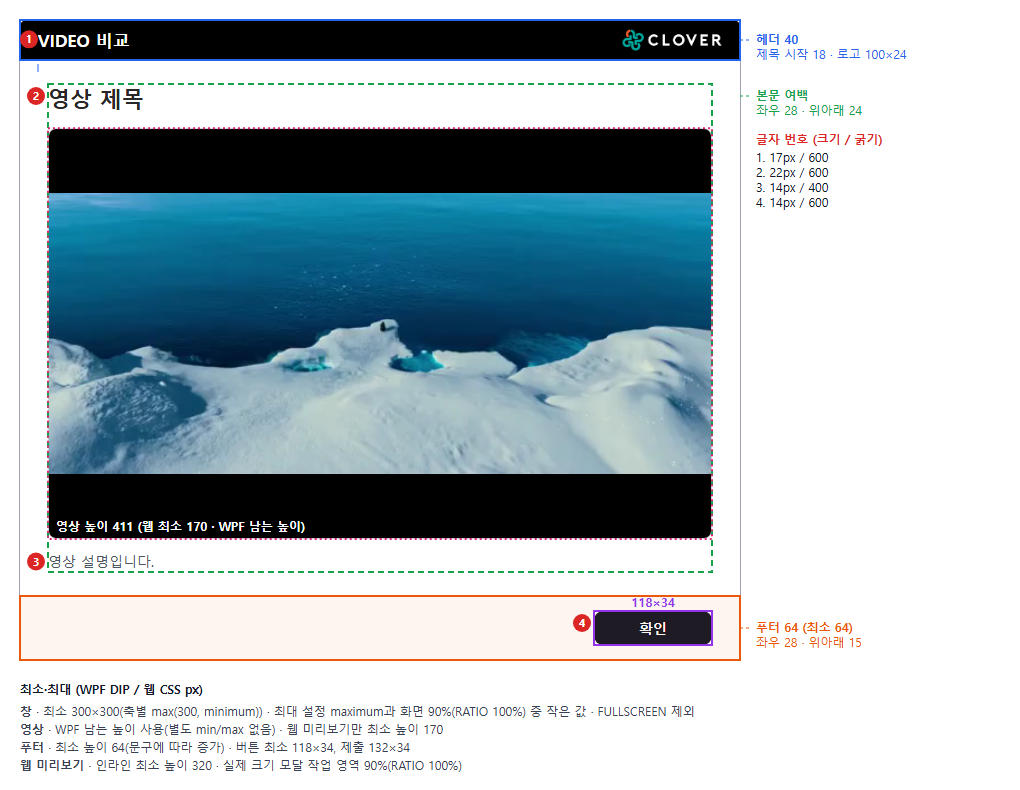
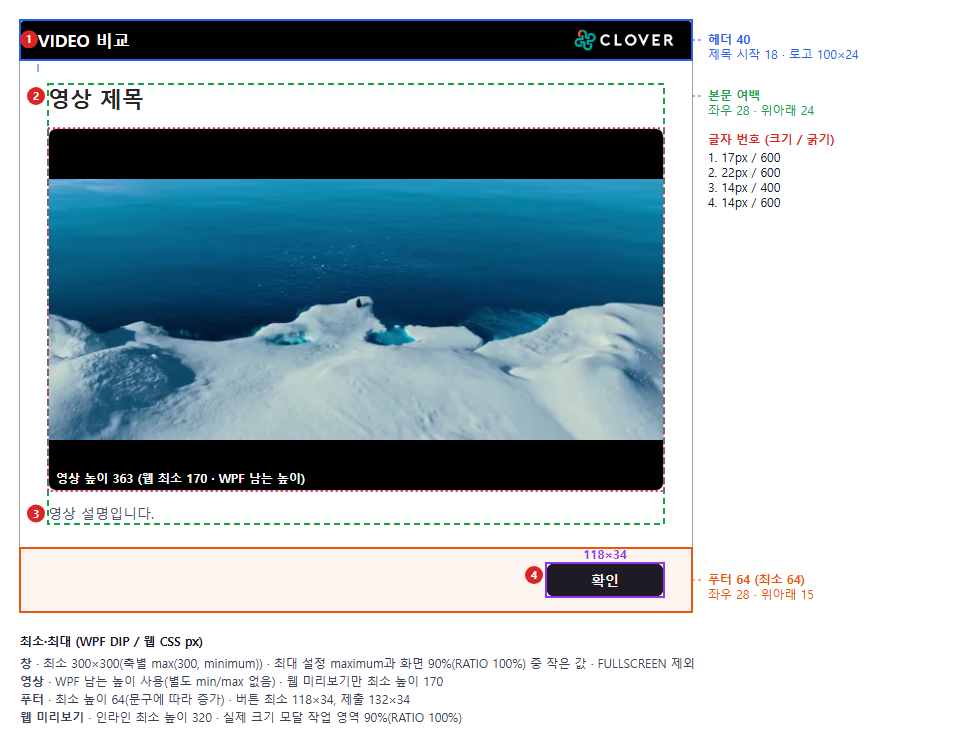
dev: 61_영상창판크기맞춤_수정

Changed region(s): [[0.0, 0.0, 0.8951, 0.9919], [0.5247, 0.496, 0.5556, 0.527]]

diff --git a/zero-rule-web/main/src/features/PopupcommonComponent/popupPreviewDialogLayout.ts b/zero-rule-web/main/src/features/PopupcommonComponent/popupPreviewDialogLayout.ts
@@ -23,18 +23,28 @@ export function previewPositionAlign(popup: AdminPopupDetail): [string, string] 
   return PREVIEW_POSITION_ALIGN[position] ?? PREVIEW_POSITION_ALIGN.CENTER;
 }
 
+/** 영상 창(VIDEO, 영상 사용 QUIZ) 여부. WPF는 이 창을 저사양 PC 부하 때문에 그림자 없는 불투명 창으로 만든다(ApplyVideoWindowSurface). */
+export function previewHostsVideo(popup: AdminPopupDetail): boolean {
+  return popup.popupType === 'VIDEO' || (popup.popupType === 'QUIZ' && popup.content.videoEnabled === true);
+}
+
 /**
  * POL-08-01 : 공통 렌더러
- * ■ 창 안쪽 그림자 여백
+ * ■ 창 안쪽 여백
  * - in : popup(AdminPopupDetail) popupType · sizeMode · content.videoEnabled
- * - out: number 여백(px) — 영상 창(VIDEO, 영상 사용 QUIZ)·FULLSCREEN 0, 그 밖 24
+ * - out: number 여백(px) — FULLSCREEN 0, 그 밖 24(영상 창 포함)
  * - WPF 일반 창은 창 크기 안에 그림자용 투명 여백 24px(PopupOuterGrid.Margin)을 두고 그 안에 흰 판을 그린다(흰 판 = 창 - 48).
- *   영상 창(ApplyVideoWindowSurface)·FULLSCREEN은 여백이 없다. 미리보기(PopupPreview)도 창 크기 안에 같은 여백을 두고 그 안에 그림자를 그린다
- *   (2026-11-17, 이전에는 IMAGE에만 적용돼 TEXT·SURVEY·QUIZ 흰 판이 WPF보다 48px 컸음).
+ *   미리보기(PopupPreview)도 창 크기 안에 같은 여백을 두고 그 안에 판을 그린다(2026-11-17).
+ * - 영상 창(2026-11-24): WPF가 창 자체를 사방 24씩 줄이고 위치도 그만큼 안쪽으로 옮겨(VideoWindowInset) 보이는 판이 다른 유형의 흰 판과
+ *   같은 크기·자리다. 미리보기는 같은 결과를 투명 여백 24로 그린다(그림자만 없음 — previewWindowShadow). 이전에는 영상 창 여백 0이라 판이 48 컸다.
  */
 export function previewShadowMargin(popup: AdminPopupDetail): number {
-  const hasVideo = popup.popupType === 'VIDEO' || (popup.popupType === 'QUIZ' && popup.content.videoEnabled === true);
-  return hasVideo || popup.sizeMode === 'FULLSCREEN' ? 0 : POPUP_LAYOUT.windowMargin;
+  return popup.sizeMode === 'FULLSCREEN' ? 0 : POPUP_LAYOUT.windowMargin;
+}
+
+/** 판 그림자 표시 여부. 영상 창·FULLSCREEN은 WPF와 같이 그림자를 그리지 않는다. */
+export function previewWindowShadow(popup: AdminPopupDetail): boolean {
+  return popup.sizeMode !== 'FULLSCREEN' && !previewHostsVideo(popup);
 }
 
 /** WPF DropShadowEffect(BlurRadius 22 · ShadowDepth 4 · Direction 270 · Opacity 0.28)에 해당하는 CSS 그림자. 여백이 있는 창에만 쓴다. */

diff --git a/zero-rule-web/main/src/features/PopupcommonComponent/PopupPreview.tsx b/zero-rule-web/main/src/features/PopupcommonComponent/PopupPreview.tsx
@@ -11,7 +11,7 @@ import { POPUP_COLORS, POPUP_LAYOUT } from './popupLayout';
 import { readTextBlocks } from './popupRichText';
 import PopupRichBlocks, { richBlocksOrNull } from './PopupRichBlocks';
 import { POPUP_DEFAULT_FONT_SIZES, popupFontSize, popupMinimumSize } from './popupCommon';
-import { PREVIEW_WINDOW_SHADOW, previewShadowMargin, readScreenWorkArea } from './popupPreviewDialogLayout';
+import { PREVIEW_WINDOW_SHADOW, previewShadowMargin, previewWindowShadow, readScreenWorkArea } from './popupPreviewDialogLayout';
 import { PREVIEW_VIDEO_QUIZ_COMPLETION_RATIO } from './popupPreviewFallback';
 import { buildQuizResultNotice, SURVEY_COMPLETED_MESSAGE } from './popupQuizResultNotice';
 import { quizRequiresPassing } from './popupQuizRule';
@@ -563,7 +563,8 @@ export default function PopupPreview({
       sx={{
         minHeight: 0,
         height: '100%',
-        // WPF 일반 창은 창 크기 안에 그림자 여백 24px(영상 창·FULLSCREEN 0)을 두고 흰 판을 그린다. 모든 유형에 같은 규칙(2026-11-17).
+        // WPF 일반 창은 창 크기 안에 그림자 여백 24px(FULLSCREEN 0)을 두고 흰 판을 그린다. 모든 유형에 같은 규칙(2026-11-17).
+        // 영상 창도 WPF가 창을 사방 24씩 줄여 같은 판 크기·자리에 두므로 여백 24(그림자 없음, 2026-11-24).
         p: shadowMargin ? `${shadowMargin}px` : showBackground ? 2 : 0,
         flex: 1,
         boxSizing: 'border-box',
@@ -592,7 +593,7 @@ export default function PopupPreview({
         elevation={0}
         sx={{
           // WPF DropShadowEffect와 같은 그림자. 영상 창·FULLSCREEN은 WPF와 같이 그림자 없음.
-          boxShadow: shadowMargin ? PREVIEW_WINDOW_SHADOW : 'none',
+          boxShadow: previewWindowShadow(popup) ? PREVIEW_WINDOW_SHADOW : 'none',
           width: '100%',
           height: '100%',
           maxWidth: '100%',

diff --git a/zero-rule-web/main/src/features/PopupcommonComponent/guide/guideNotices.ts b/zero-rule-web/main/src/features/PopupcommonComponent/guide/guideNotices.ts
@@ -57,6 +57,15 @@ export const NOTICE_STATUS_LABELS: Record<NoticeStatus, string> = {
 
 export const GUIDE_NOTICES: GuideNotice[] = [
   {
+    id: '2026-11-24-video-window-inset', date: '2026-11-24', category: 'CHANGED', status: 'DONE', doneDate: '2026-11-24',
+    title: '영상 팝업 판 크기 — 다른 유형과 같게',
+    body: ['같은 창 크기에서 VIDEO·동영상+퀴즈 판이 다른 유형보다 가로·세로 48px 크게 보이던 것을 맞췄습니다. WPF는 영상 창을 사방 24씩 줄이고 위치도 그만큼 안쪽으로 둡니다.',
+      '미리보기(인라인·실제 크기)도 영상 창에 여백 24를 두고 그림자만 그리지 않습니다(previewShadowMargin 24, previewWindowShadow false). 저장값·서버는 바뀌지 않습니다.'],
+    components: ['PopupPreview', 'PopupPreviewDialog', 'InlinePopupPreview'],
+    action: '바꿀 코드는 없습니다. 미리보기를 감싼 화면에서 영상 팝업만 여백을 따로 빼고 있었다면 지웁니다.',
+    tab: 'function',
+  },
+  {
     id: '2026-11-24-rich-font-faces', date: '2026-11-24', category: 'ADDED', status: 'DONE', doneDate: '2026-11-24',
     title: '회사 글꼴 등록 — 일반·굵게 서체 직접 지정(faces)',
     body: ['전역 CSS 별칭이 굵기마다 다른 디자인(예: 300 Text·700 Head)을 섞거나 400 선언이 없으면, 편집기·미리보기가 WPF와 다른 서체를 고릅니다.',

diff --git a/scripts/PopupWindowTests/Program.cs b/scripts/PopupWindowTests/Program.cs
@@ -274,6 +274,62 @@ internal static class Program
         return opened;
     }
 
+    /*
+     * POL-02-01 : 창 구조 — 영상 창 크기 맞춤(2026-11-24).
+     * 일반 창은 창 안쪽 24 DIP 그림자 여백 안에 흰 판(창 - 48)을 그리고, 영상 창은 여백 없는 불투명 창이다.
+     * 영상 창은 사방 24씩 작게 만들고 위치도 그만큼 안쪽으로 옮겨, 같은 설정이면 보이는 판이 TEXT 흰 판과 같은 크기·자리에 놓인다.
+     * FIXED·RATIO·AUTO 최대(작업 영역 90%) 모두 같은 규칙, FULLSCREEN은 그대로 화면 전체.
+     */
+    private static void CheckVideoWindowInset()
+    {
+        Rect PlateOnScreen(PopupWindow window)
+        {
+            window.UpdateLayout();
+            var plate = (FrameworkElement)window.FindName("PopupBodyBorder");
+            var origin = plate.TranslatePoint(new Point(0, 0), window);
+            return new Rect(window.Left + origin.X, window.Top + origin.Y, plate.ActualWidth, plate.ActualHeight);
+        }
+        bool Near(Rect a, Rect b) => Math.Abs(a.X - b.X) < 1 && Math.Abs(a.Y - b.Y) < 1 && Math.Abs(a.Width - b.Width) < 1 && Math.Abs(a.Height - b.Height) < 1;
+        foreach (var (mode, position, w, h) in new[] { ("FIXED", "CENTER", 800, 600), ("FIXED", "TOP_LEFT", 800, 600), ("FIXED", "BOTTOM_RIGHT", 800, 600), ("RATIO", "CENTER", 800, 600), ("FIXED", "CENTER", 720, 900) })
+        {
+            void Configure(Popup.Dtos.PopupResponseDto dto)
+            {
+                dto.SizeMode = mode; dto.Width = w; dto.Height = h; dto.WidthRatio = 0.5; dto.HeightRatio = 0.6;
+                dto.PopupPosition = position; dto.ShowFooter = true;
+                dto.MinimumWidth = 300; dto.MinimumHeight = 300; dto.MaximumWidth = 1200; dto.MaximumHeight = 900;   // 데모 데이터의 유형별 최소·최대 차이를 없앤다
+            }
+            var text = OpenPopup("TEXT", Configure);
+            Rect textPlate = PlateOnScreen(text.Window);
+            foreach (var type in new[] { "VIDEO", "VIDEO_QUIZ" })
+            {
+                var video = OpenPopup(type, Configure);
+                Rect videoPlate = PlateOnScreen(video.Window);
+                Check(Near(videoPlate, textPlate) && Math.Abs(video.Window.ActualWidth - (text.Window.ActualWidth - 48)) < 1,
+                    $"[video inset] {type} {mode} {position} {w}x{h}: video plate {videoPlate} matches TEXT plate {textPlate} (window {video.Window.ActualWidth} vs {text.Window.ActualWidth})");
+                ShutdownClose(video.Window);
+            }
+            ShutdownClose(text.Window);
+        }
+        // 최대 크기: 작업 영역 90% 상한에서도 영상 판 = TEXT 판.
+        Rect area = SystemParameters.WorkArea;
+        var bigText = OpenPopup("TEXT", dto => { dto.SizeMode = "FIXED"; dto.Width = 9000; dto.Height = 9000; dto.MinimumWidth = 300; dto.MinimumHeight = 300; dto.MaximumWidth = 9000; dto.MaximumHeight = 9000; dto.ShowFooter = true; });
+        var bigVideo = OpenPopup("VIDEO", dto => { dto.SizeMode = "FIXED"; dto.Width = 9000; dto.Height = 9000; dto.MinimumWidth = 300; dto.MinimumHeight = 300; dto.MaximumWidth = 9000; dto.MaximumHeight = 9000; dto.ShowFooter = true; });
+        Check(Near(PlateOnScreen(bigVideo.Window), PlateOnScreen(bigText.Window)) && bigVideo.Window.ActualWidth <= area.Width * 0.9 - 48 + 1,
+            $"[video inset] capped size: video plate {PlateOnScreen(bigVideo.Window)} matches TEXT plate {PlateOnScreen(bigText.Window)}");
+        ShutdownClose(bigVideo.Window); ShutdownClose(bigText.Window);
+        // 최소 크기 300: 영상 창 252(= TEXT 흰 판).
+        var smallVideo = OpenPopup("VIDEO", dto => { dto.SizeMode = "FIXED"; dto.Width = 100; dto.Height = 100; dto.MinimumWidth = 300; dto.MinimumHeight = 300; dto.ShowFooter = true; });
+        smallVideo.Window.UpdateLayout();
+        Check(Math.Abs(smallVideo.Window.MinWidth - 252) < 1 && Math.Abs(smallVideo.Window.ActualWidth - 252) < 1,
+            $"[video inset] minimum 300 window becomes a 252 video window ({smallVideo.Window.ActualWidth}, min {smallVideo.Window.MinWidth})");
+        ShutdownClose(smallVideo.Window);
+        // FULLSCREEN은 줄이지 않는다.
+        var full = OpenPopup("VIDEO", dto => { dto.SizeMode = "FULLSCREEN"; dto.ShowFooter = true; });
+        full.Window.UpdateLayout();
+        Check(full.Window.ActualWidth >= SystemParameters.PrimaryScreenWidth - 1, $"[video inset] FULLSCREEN video keeps the full screen ({full.Window.ActualWidth})");
+        ShutdownClose(full.Window);
+    }
+
     private static void SetPlaybackFailed(VideoPopupView video, bool failed) =>
         typeof(VideoPopupView).GetProperty("HasPlaybackFailed")!.SetValue(video, failed);
 
@@ -843,6 +899,7 @@ internal static class Program
 
         CheckVideoQuizScrollBarBoundary60();
         CheckLocalVideoWebPlayer60();
+        CheckVideoWindowInset();
         CheckVideoKeyboardAccess();
 
         var single = OpenPopup("VIDEO", dto => dto.ShowFooter = true);

diff --git a/popup-frameWork/Popup/Views/Windows/PopupWindow.xaml.cs b/popup-frameWork/Popup/Views/Windows/PopupWindow.xaml.cs
@@ -396,7 +396,36 @@ namespace Popup.Views.Windows
          * PopupOptions.SizeMode에 따라
          * PopupWindow의 실제 크기를 결정한다.
          */
+        /*
+         * POL-02-01 : 창 구조
+         * ■ 영상 창 크기 맞춤(2026-11-24)
+         * - 일반 창은 창 크기 안쪽 둘레 24 DIP(PopupOuterGrid.Margin)를 그림자용 투명 여백으로 비우고 그 안에 흰 판을 그린다(보이는 판 = 창 - 48).
+         *   영상 창(ApplyVideoWindowSurface)은 저사양 PC 부하 때문에 불투명 창·여백 0이라, 같은 설정 크기에서 판이 48 크게 보였다.
+         * - 영상 창(전체 화면 제외)은 같은 규칙으로 크기를 계산한 뒤 창 자체를 사방 VideoWindowInset만큼 줄이고(ApplyWindowSize),
+         *   위치도 작업 영역을 그만큼 안쪽으로 좁혀 정한다(ApplyPosition). 보이는 판이 다른 유형의 흰 판과 같은 크기·자리에 놓인다.
+         *   그림자는 계속 넣지 않는다(저사양 CPU 부하 기준 유지).
+         */
+        private const double VideoWindowInset = 24;
+        private double WindowInset => HostsVideo && _options.SizeMode != PopupSizeMode.Fullscreen ? VideoWindowInset : 0;
+
         private void ApplyWindowSize()
+        {
+            ApplyRequestedWindowSize();
+            double inset = WindowInset;
+            if (inset <= 0) return;
+            // 최소·최대·크기 모두 같은 양을 빼서 다른 유형의 흰 판(창 - 48)과 같은 범위를 쓴다. AUTO는 내용 크기를 따르므로 최소·최대만 줄인다.
+            MinWidth = Math.Max(0, MinWidth - inset * 2);
+            MinHeight = Math.Max(0, MinHeight - inset * 2);
+            if (double.IsFinite(MaxWidth)) MaxWidth = Math.Max(MinWidth, MaxWidth - inset * 2);
+            if (double.IsFinite(MaxHeight)) MaxHeight = Math.Max(MinHeight, MaxHeight - inset * 2);
+            if (SizeToContent == SizeToContent.Manual)
+            {
+                if (double.IsFinite(Width)) Width = Math.Clamp(Width - inset * 2, MinWidth, MaxWidth);
+                if (double.IsFinite(Height)) Height = Math.Clamp(Height - inset * 2, MinHeight, MaxHeight);
+            }
+        }
+
+        private void ApplyRequestedWindowSize()
         {
             /*
              * PopupWindow.xaml에는 Visual Studio 미리보기와
@@ -803,6 +832,9 @@ namespace Popup.Views.Windows
             double width = ActualWidth > 0 ? ActualWidth : Width;
             double height = ActualHeight > 0 ? ActualHeight : Height;
             if (!double.IsFinite(width) || !double.IsFinite(height)) return;
+            // 영상 창은 그림자 여백만큼 작게 만들었으므로 작업 영역도 그만큼 안쪽으로 좁혀, 판이 다른 유형의 흰 판과 같은 자리에 오게 한다.
+            double inset = WindowInset;
+            if (inset > 0 && area.Width > inset * 2 && area.Height > inset * 2) area.Inflate(-inset, -inset);
             double x = _options.Position switch
             {
                 PopupPosition.TopLeft or PopupPosition.CenterLeft or PopupPosition.BottomLeft => 0,

diff --git a/version-history/CHANGELOG.md b/version-history/CHANGELOG.md
@@ -1,5 +1,13 @@
 # 변경 이력
 
+## 2026-11-24-19 — dev: 61_영상창판크기맞춤_수정
+
+- 이유 · VIDEO·VIDEO+QUIZ 창은 저사양 PC 부하 때문에 그림자 없는 불투명 창이라 그림자 여백 24도 없어, 같은 설정 크기에서 판이 다른 유형(창 - 48)보다 48 크게 보였다. 그림자 유무보다 크기 차이가 눈에 띄어 크기만 맞춤.
+- 변경 · WPF `PopupWindow`: 기존 크기 계산을 `ApplyRequestedWindowSize`로 분리하고 `ApplyWindowSize`에서 영상 창(전체 화면 제외)의 최소·최대·크기를 사방 `VideoWindowInset` 24씩 줄임(AUTO는 최소·최대만). `ApplyPosition`은 영상 창일 때 작업 영역을 24 안쪽으로 좁혀 위치 계산. 그림자는 계속 없음. 웹: `previewShadowMargin`이 영상 창에도 24(FULLSCREEN만 0), 그림자는 새 `previewWindowShadow`/`previewHostsVideo`로 판단. 61 레이아웃 가이드(공통 창 구조 표·VIDEO 그림 4장 재생성·VIDEO+QUIZ 비교 창 720×840), UI 기본값 사양, 미리보기·WPF 대조 문서, 코드 가이드 공지 갱신. `verify-popup-parity` VIDEO+QUIZ 비교 데이터 높이 900 → 840(작업 영역 높이 약 947인 측정 환경에서 90% 상한 852에 걸려 2026-11-24 상한 통일 이후 실패하던 조건 회피).
+- 주요 파일 · `popup-frameWork/Popup/Views/Windows/PopupWindow.xaml.cs`, `scripts/PopupWindowTests/Program.cs`, `zero-rule-web/main/src/features/PopupcommonComponent/popupPreviewDialogLayout.ts`, `PopupPreview.tsx`, `guide/guideNotices.ts`, `scripts/verify-popup-preview-61.cjs`, `scripts/verify-popup-parity.cjs`, `docs/design/61_POPUP_LAYOUT_GUIDE.md`, `docs/design/61_popup_layout_guide/PARITY-VIDEO*.png`, `docs/design/61_POPUP_UI_DEFAULTS_SPEC.md`, `docs/reviews/POPUP_PREVIEW_WPF_PARITY.md`.
+- 검증 · WPF 빌드 0/0, `PopupWindowTests` 신규 `CheckVideoWindowInset` 13건(FIXED 3위치·RATIO·720×900·90% 상한·최소 300 → 252·FULLSCREEN 유지, TEXT 흰 판과 화면 좌표 일치) 포함 전체 통과, 로컬 BehaviorTests 1644, 웹 `verify-popup-parity` 54(VIDEO·VIDEO+QUIZ 흰 판 웹=WPF)·`verify-popup-preview-61` 294·completion-ux-43 82·common-sample-69 63·image-preview 48·guide-render·guide-registry, `tsc --noEmit`·eslint 통과. 미실행: Windows 실화면·고DPI, 관리자 웹 실화면, 폐쇄망 반입본.
+- 상태 · 커밋·원격 반영.
+
 ## 2026-11-24-18 — dev: PopupAlert_전체섀도우_수정
 
 - 이유 · 공통 안내창의 검은 외곽선(1.2 DIP)이 배율(DPI)에 따라 두께가 달라 보여 DPI 대응을 섀도우로 하기로 했으나, 2026-11-24-05에서는 퀴즈 완료창에만 섀도우를 적용해 나머지 안내창은 외곽선이 남아 있었음.

diff --git a/docs/design/61_POPUP_UI_DEFAULTS_SPEC.md b/docs/design/61_POPUP_UI_DEFAULTS_SPEC.md
@@ -20,7 +20,7 @@
 
 | 영역 | 기본 글자 크기·굵기 | 기본 크기·여백 | 적용 조건 |
 |---|---|---|---|
-| 창·내부 패널 | — | 일반 창은 그림자 공간 사방 24. 영상 창 및 FULLSCREEN은 0. 창 크기 하한은 너비·높이 각각 300을 기본으로 사용 | 웹 FIXED 미지정 입력·모달 기준 560×420. WPF `PopupOptions` 객체 초기값은 900×620. 실표시는 전달 크기·크기 모드·가용 화면 및 제한값으로 계산 |
+| 창·내부 패널 | — | 일반 창은 그림자 공간 사방 24. 영상 창은 그림자 없이 창 자체를 사방 24 줄여 같은 판 크기·자리(2026-11-24). FULLSCREEN은 0. 창 크기 하한은 너비·높이 각각 300을 기본으로 사용 | 웹 FIXED 미지정 입력·모달 기준 560×420. WPF `PopupOptions` 객체 초기값은 900×620. 실표시는 전달 크기·크기 모드·가용 화면 및 제한값으로 계산 |
 | 헤더 제목 | **17 / SemiBold(600)** | 행 높이 **40**, 제목 시작 18, 로고와 제목 사이 12 기준. 우측 로고 **100×24**, 끝 여백 18 기준 | `headerFontSize` 지정 우선. 한 줄 말줄임. 헤더를 끄면 행도 접힘 |
 | 일반 본문 외곽 | 유형별 아래 표 | 좌우 **28**, 상하 **24**. 웹은 콘텐츠 박스의 padding, WPF는 `PopupContent` margin | 이미지 모드·전체 채움처럼 여백을 별도로 처리하는 경로는 유형별 확인 |
 | 공통 푸터 | 버튼·체크박스 **14** 기본, 진행·상태 문구는 별도 크기(설문 응답 진행 문구 12, 푸터 글자 크기 미적용) | 한 줄 기준 **64**, 좌우 **28**·상하 **15**가 공통 기준. 웹 일반 분기는 좌우 28px, 설문 분기는 테마 간격 `px: 3`으로 선언 | **TODO61-18**에서 분기별 실제 간격과 줄바꿈 정렬 검증. WPF 영상·설문 계열 행은 자동 높이·최소 64. 숨김 시 행을 접음 |

diff --git a/docs/reviews/POPUP_PREVIEW_WPF_PARITY.md b/docs/reviews/POPUP_PREVIEW_WPF_PARITY.md
@@ -80,3 +80,10 @@
 4. 설문 머리말: 제목 위 4, 설명 줄 높이 22, 설명 아래 14(머리말 10 + 문항 목록 4). 설명이 비어도 한 줄 자리를 둔다(VIDEO+QUIZ에서 영상 설명과 같아 숨길 때만 접음, `reserveDescription`).
 
 검증: `verify-popup-parity.cjs` 22건(5종 흰 판 크기 웹=WPF, 선택지 17개 높이·글자) 통과, 나란히 이미지에서 첫 문항 위치·버튼 색·구분선 일치 확인(설명 줄 1~2px 이내 차이는 글꼴 렌더링 차이).
+
+## 2026-11-24 영상 창 판 크기 맞춤
+
+- 현상: 같은 설정 크기에서 VIDEO·VIDEO+QUIZ 판이 다른 유형보다 가로·세로 48 크게 보였다(영상 창은 저사양 PC 부하 때문에 그림자 없는 불투명 창이라 여백 24도 없었음).
+- 변경: WPF `PopupWindow`가 영상 창(전체 화면 제외)을 사방 `VideoWindowInset` 24씩 줄이고 위치도 작업 영역을 그만큼 안쪽으로 좁혀 정한다. 미리보기는 `previewShadowMargin` 24를 영상 창에도 적용하고 그림자만 `previewWindowShadow`로 끈다. 보이는 판이 다른 유형 흰 판과 같은 크기·자리.
+- 검증: `PopupWindowTests` `CheckVideoWindowInset`(FIXED 3위치·RATIO·720×900·90% 상한·최소 300 → 252·FULLSCREEN 유지, TEXT 흰 판과 화면 좌표 일치), `verify-popup-parity` 54(VIDEO·VIDEO+QUIZ 흰 판 웹=WPF), `verify-popup-preview-61` 294.
+- 비교 데이터: VIDEO+QUIZ 창 높이 900 → 840(작업 영역 90% 상한에 걸리지 않게).

diff --git a/docs/design/61_POPUP_LAYOUT_GUIDE.md b/docs/design/61_POPUP_LAYOUT_GUIDE.md
@@ -30,7 +30,7 @@ node scripts/verify-popup-parity.cjs
 
 | 영역 | 값 | 웹(관리자 미리보기) | WPF |
 |---|---|---|---|
-| 창 바깥 그림자 여백 | 24 (영상 창·FULLSCREEN 0) | `POPUP_LAYOUT.windowMargin`, `previewShadowMargin()` | `PopupOuterGrid` Margin 24 |
+| 창 바깥 그림자 여백 | 24 (FULLSCREEN 0). 영상 창은 그림자 없이 같은 24만큼 창을 줄여 판 크기·자리를 맞춤(2026-11-24) | `POPUP_LAYOUT.windowMargin`, `previewShadowMargin()`, 그림자 `previewWindowShadow()` | `PopupOuterGrid` Margin 24, 영상 창 `VideoWindowInset` 24 |
 | 헤더 | 높이 40, 검정 배경 | `POPUP_LAYOUT.headerHeight` | `HeaderRow` 40, `HeaderArea` |
 | 헤더 제목 | 17 / 600, 왼쪽 시작 18, 한 줄 말줄임 | `POPUP_DEFAULT_FONT_SIZES.header`, `POPUP_LAYOUT.headerPaddingLeft` | `PopupTitleText` |
 | 헤더 로고 | 100×24, 오른쪽 끝 | `PopupPreview` 헤더 로고 | `HeaderLogo` |
@@ -241,7 +241,7 @@ node scripts/verify-popup-parity.cjs
 
 웹·WPF 나란히: [PARITY-VIDEO.side.png](61_popup_layout_guide/PARITY-VIDEO.side.png)
 
-### VIDEO+QUIZ (720×900)
+### VIDEO+QUIZ (720×840)
 
 샘플 ID `PARITY-VIDEO-QUIZ`
 
